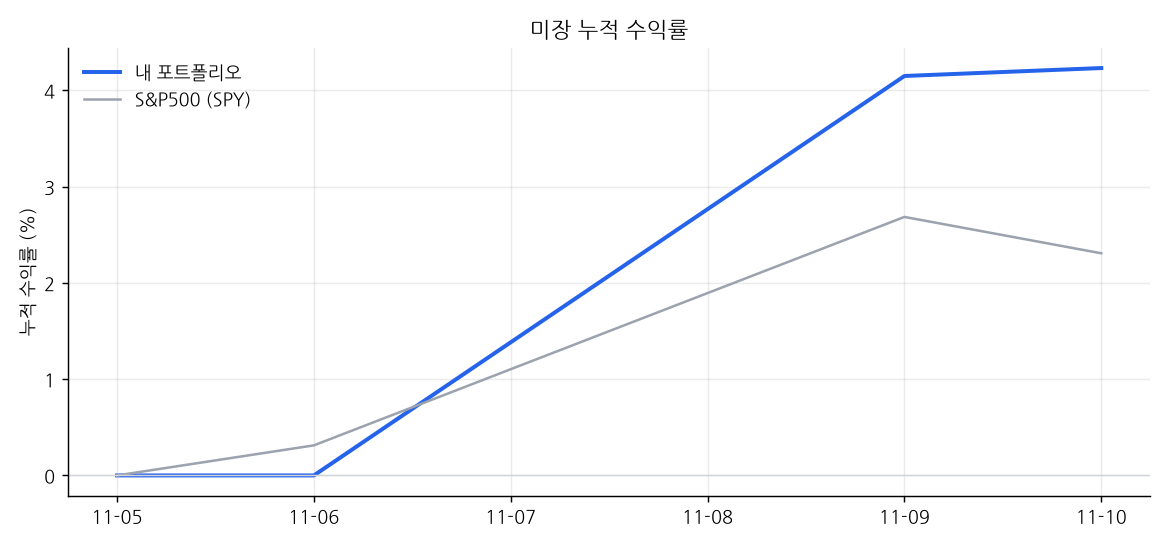
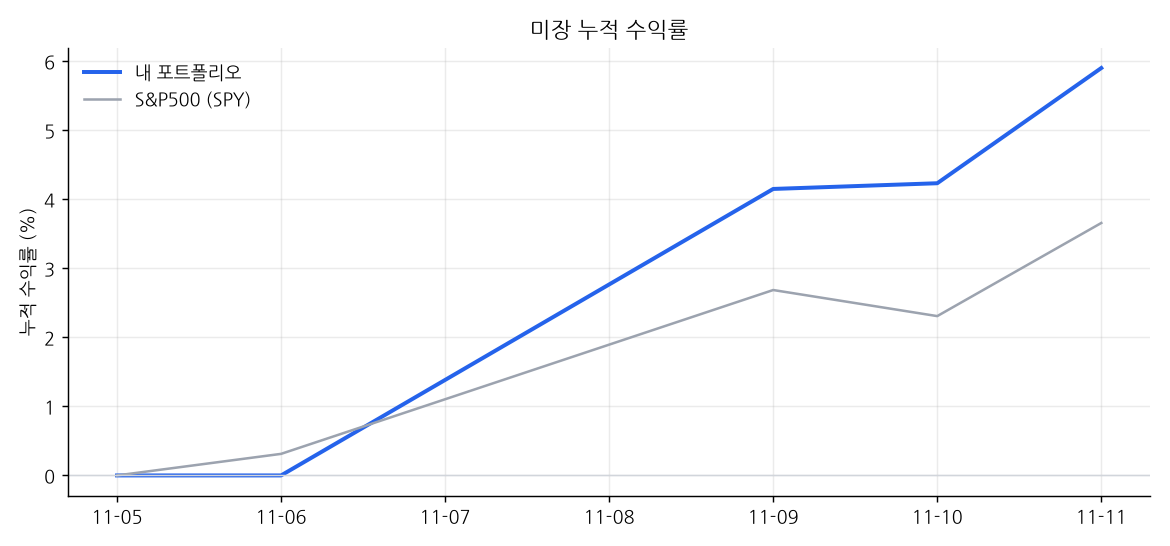
dashboard 2026-11-12 07:30

diff --git a/README.md b/README.md
@@ -1,10 +1,10 @@
 # 📈 내 자동매매 포트폴리오
 
-_마지막 갱신: 2026-11-11 16:00 (KST) · 라즈베리파이 자동 업데이트_
+_마지막 갱신: 2026-11-12 07:30 (KST) · 라즈베리파이 자동 업데이트_
 
 | 트랙 | 시작일 | 누적 수익률 | 비교 지수 | 초과 | 최근 1개월 | 국면 |
 |---|---|---|---|---|---|---|
-| 미장 | 2026-11-05 | **+4.23%** | +2.31% | +1.92% | - | BULL |
+| 미장 | 2026-11-05 | **+5.90%** | +3.66% | +2.24% | - | BULL |
 | 국장 | 2026-11-06 | **+0.54%** | +7.01% | -6.47% | - | BEAR |
 
 ## 미장
@@ -13,16 +13,16 @@ _마지막 갱신: 2026-11-11 16:00 (KST) · 라즈베리파이 자동 업데이
 
 | 종목 | 비중 |
 |---|---|
-| AMD | 10.9% |
-| TSLA | 10.3% |
-| AVGO | 10.2% |
-| AMZN | 9.9% |
-| META | 9.9% |
-| AAPL | 9.7% |
-| LLY | 9.7% |
-| GOOGL | 9.4% |
-| MSFT | 9.3% |
-| NVDA | 8.3% |
+| AMD | 11.5% |
+| AVGO | 10.5% |
+| TSLA | 10.4% |
+| AAPL | 9.8% |
+| AMZN | 9.6% |
+| LLY | 9.6% |
+| META | 9.6% |
+| GOOGL | 9.5% |
+| MSFT | 8.9% |
+| NVDA | 8.4% |
 | 현금 | 2.3% |
 
 ![미장 비중](charts/us_weights.png)
